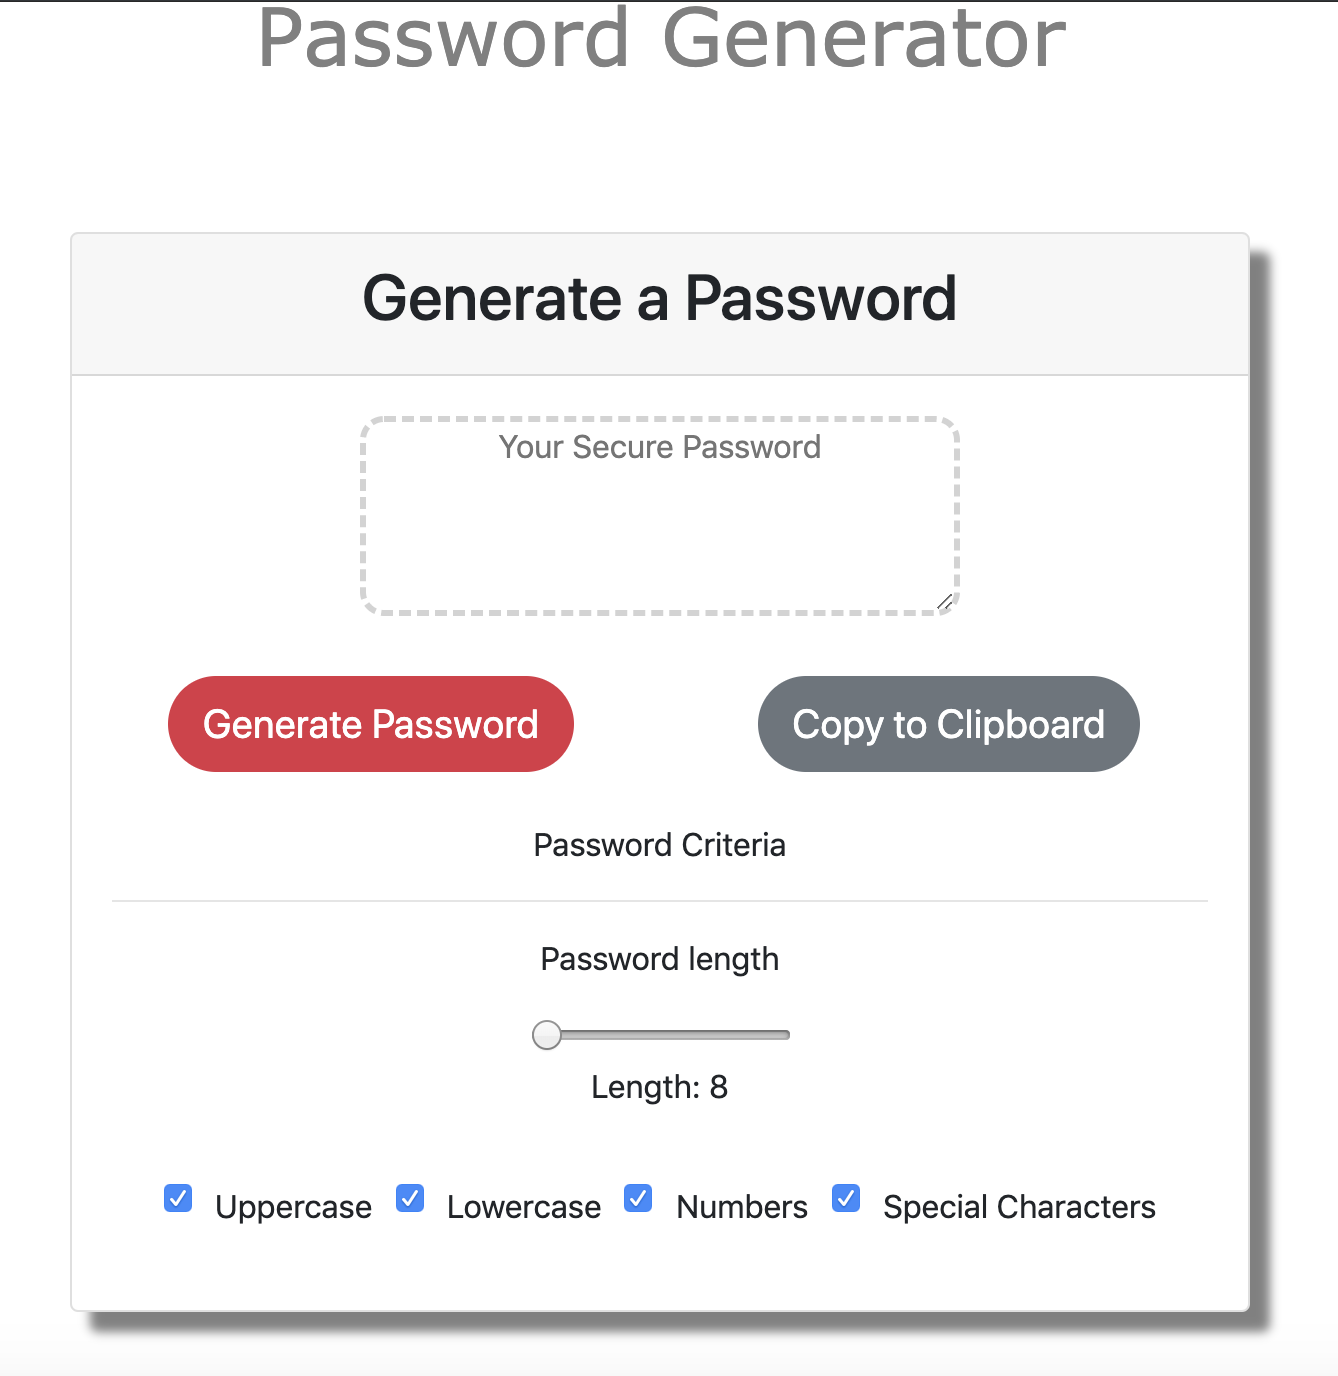
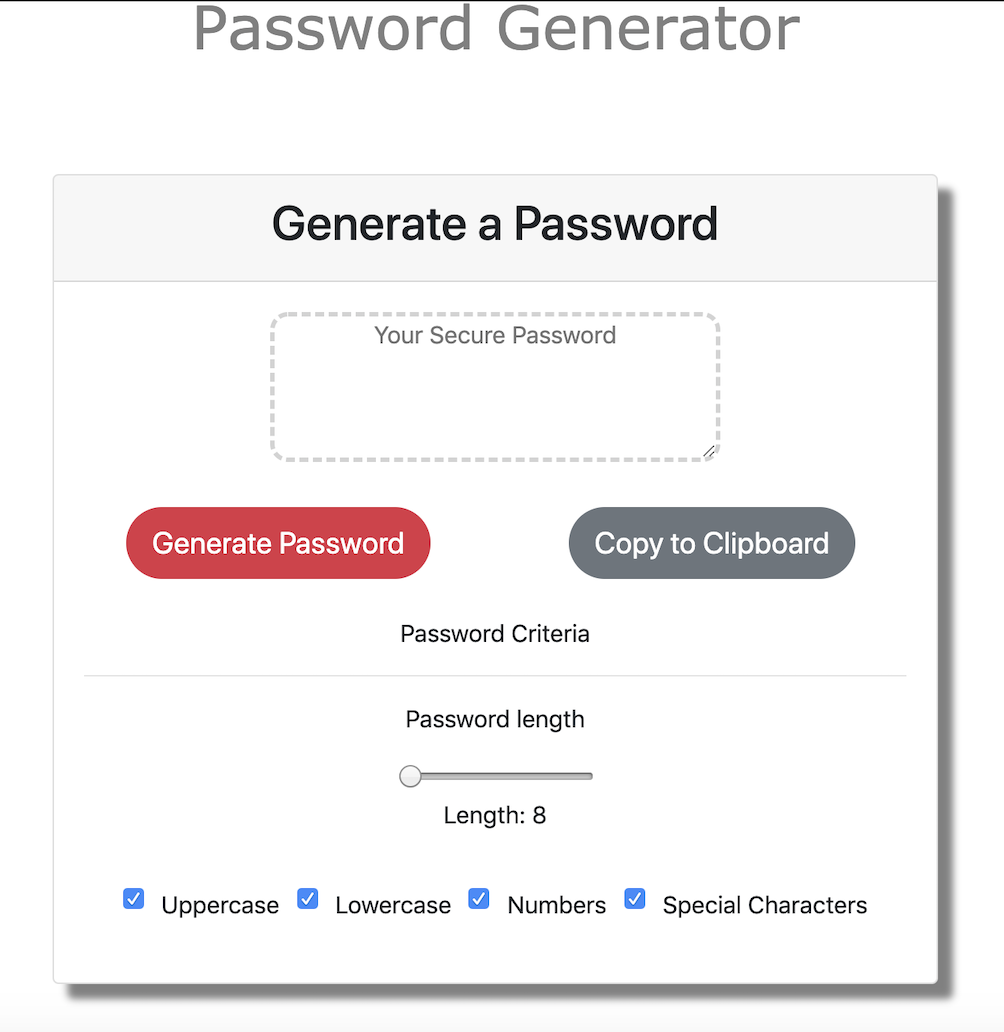
adjusting image size

diff --git a/README.md b/README.md
@@ -23,7 +23,6 @@ One of the following criteria MUST BE CHECKED or a password will not be created:
 Once your criteria has been set, click the Generate Password button and a randomly generated password will be created in the text area.
 
 ##### COPY TO CLIPBOARD
-Use the Copy to Clipboard button to copy your randomly generated password to your clipboard so that you can paste it elsewhere.
-(only works with macs and pcs. Does not work with traditional wooden clipboards)
+Use the Copy to Clipboard button to copy your randomly generated password to your clipboard so that you can paste it elsewhere for safe keeping.
 
 ![screenshot](/images/RPG.png)
